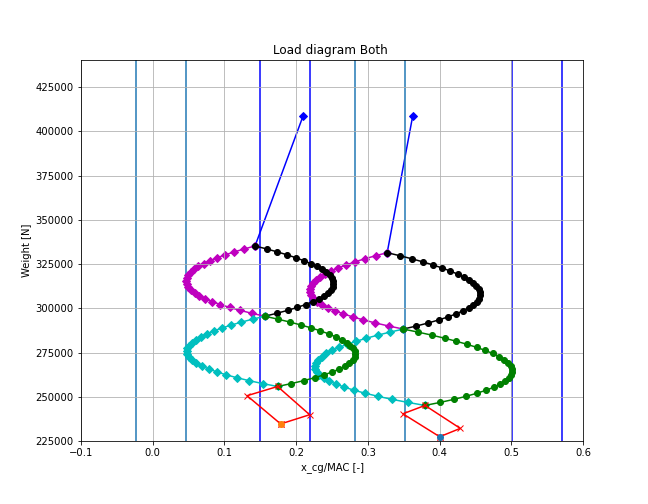
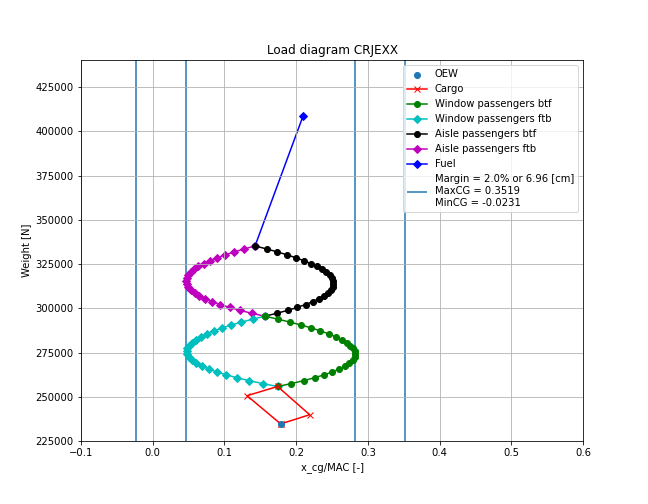
asd

Changed region(s): [[0.463, 0.119, 0.8951, 0.8631], [0.4012, 0.0893, 0.6173, 0.119], [0.4321, 0.8333, 0.463, 0.8631]]

diff --git a/mass_calculation.py b/mass_calculation.py
@@ -199,12 +199,12 @@ def loaddiagram():
     plt.plot(aisle_pointsbtf[0],aisle_pointsbtf[1], 'k', marker = 'o', zorder = 2, label = 'Aisle passengers btf')
     plt.plot(aisle_pointsftb[0],aisle_pointsftb[1], 'm', marker = 'D', zorder = 1, label = 'Aisle passengers ftb')
     plt.plot(fuel_point[0],fuel_point[1], 'b', marker = 'D', zorder = 0, label = 'Fuel')
-    plt.vlines(x = max_cg, ymin = min_weight/1.02, ymax = max_weight*1.02, zorder =0, label = 'Margin = '+ str(round((margin)*100,2))+'% or '+str(round(margin*MAC*100,4))+' [cm]\nMaxCG = '+str(round(max_margin_cg,4))+'\nMinCG = '+str(round(min_margin_cg,4)))
-    plt.vlines(x = min_cg, ymin = min_weight/1.02, ymax = max_weight*1.02, zorder=0)
-    plt.vlines(x = max_margin_cg, ymin = min_weight/1.02, ymax = max_weight*1.02, zorder= 0)
-    plt.vlines(x = min_margin_cg, ymin = min_weight/1.02, ymax = max_weight*1.02, zorder = 0)
-    plt.xlim(min_margin_cg*0.7, max_margin_cg*1.05)
-    plt.ylim(min_weight/1.02, max_weight*1.02)
+    plt.vlines(x = max_cg, ymin = 225000, ymax = 440000, zorder =0, label = 'Margin = '+ str(round((margin)*100,2))+'% or '+str(round(margin*MAC*100,4))+' [cm]\nMaxCG = '+str(round(max_margin_cg,4))+'\nMinCG = '+str(round(min_margin_cg,4)))
+    plt.vlines(x = min_cg, ymin = 225000, ymax = 440000, zorder=0)
+    plt.vlines(x = max_margin_cg, ymin = 225000, ymax = 440000, zorder= 0)
+    plt.vlines(x = min_margin_cg, ymin = 225000, ymax = 440000, zorder = 0)
+    plt.xlim(-0.1, 0.6)
+    plt.ylim(225000, 440000)
     plt.legend(loc='upper right')
     plt.grid()
     plt.savefig('LoaddiagramCRJ1000.png')
@@ -351,12 +351,12 @@ def loaddiagram_crjexx():
     plt.plot(aisle_pointsbtf[0],aisle_pointsbtf[1], 'k', marker = 'o', zorder = 2, label = 'Aisle passengers btf')
     plt.plot(aisle_pointsftb[0],aisle_pointsftb[1], 'm', marker = 'D', zorder = 1, label = 'Aisle passengers ftb')
     plt.plot(fuel_point[0],fuel_point[1], 'b', marker = 'D', zorder = 0, label = 'Fuel')
-    plt.vlines(x = max_cg, ymin = min_weight/1.02, ymax = max_weight*1.02, zorder =0, label = 'Margin = '+ str(round((margin)*100,2))+'% or '+str(round(margin*MAC*100,4))+' [cm]\nMaxCG = '+str(round(max_margin_cg,4))+'\nMinCG = '+str(round(min_margin_cg,4)))
-    plt.vlines(x = min_cg, ymin = min_weight/1.02, ymax = max_weight*1.02, zorder=0)
-    plt.vlines(x = max_margin_cg, ymin = min_weight/1.02, ymax = max_weight*1.02, zorder= 0)
-    plt.vlines(x = min_margin_cg, ymin = min_weight/1.02, ymax = max_weight*1.02, zorder = 0)
-    plt.xlim(min_margin_cg*2, max_margin_cg*1.05)
-    plt.ylim(min_weight/1.02, max_weight*1.02)
+    plt.vlines(x = max_cg, ymin = 225000, ymax = 440000, zorder =0, label = 'Margin = '+ str(round((margin)*100,2))+'% or '+str(round(margin*MAC*100,4))+' [cm]\nMaxCG = '+str(round(max_margin_cg,4))+'\nMinCG = '+str(round(min_margin_cg,4)))
+    plt.vlines(x = min_cg, ymin = 225000, ymax = 440000, zorder=0)
+    plt.vlines(x = max_margin_cg, ymin = 225000, ymax = 440000, zorder= 0)
+    plt.vlines(x = min_margin_cg, ymin = 225000, ymax = 440000, zorder = 0)
+    plt.xlim(-0.1, 0.6)
+    plt.ylim(225000, 440000)
     plt.legend(loc='upper right')
     plt.grid()
     plt.savefig('LoaddiagramCRJEXX.png')

diff --git a/mass_calculation2.py b/mass_calculation2.py
@@ -199,10 +199,14 @@ def loaddiagram():
     plt.plot(aisle_pointsbtf[0],aisle_pointsbtf[1], 'k', marker = 'o', zorder = 2, label = 'Aisle passengers btf')
     plt.plot(aisle_pointsftb[0],aisle_pointsftb[1], 'm', marker = 'D', zorder = 1, label = 'Aisle passengers ftb')
     plt.plot(fuel_point[0],fuel_point[1], 'b', marker = 'D', zorder = 0, label = 'Fuel')
-    plt.vlines(x = max_cg, ymin = 225000, ymax = 440000, color = 'b', zorder =0, label = 'Margin = '+ str(round((margin)*100,2))+'% or '+str(round(margin*MAC*100,4))+' [cm]\nMaxCG = '+str(round(max_margin_cg,4))+'\nMinCG = '+str(round(min_margin_cg,4)))
-    plt.vlines(x = min_cg, ymin = 225000, ymax = 440000, color = 'b', zorder=0)
-    plt.vlines(x = max_margin_cg, ymin = 225000, ymax = 440000, color = 'b', zorder= 0)
-    plt.vlines(x = min_margin_cg, ymin = 225000, ymax = 440000, color = 'b', zorder = 0)
+    plt.vlines(x = max_cg, ymin = 225000, ymax = 440000, zorder =0, label = 'Margin = '+ str(round((margin)*100,2))+'% or '+str(round(margin*MAC*100,4))+' [cm]\nMaxCG = '+str(round(max_margin_cg,4))+'\nMinCG = '+str(round(min_margin_cg,4)))
+    plt.vlines(x = min_cg, ymin = 225000, ymax = 440000, zorder=0)
+    plt.vlines(x = max_margin_cg, ymin = 225000, ymax = 440000, zorder= 0)
+    plt.vlines(x = min_margin_cg, ymin = 225000, ymax = 440000, zorder = 0)
+    plt.xlim(-0.1, 0.6)
+    plt.ylim(225000, 440000)
+    plt.grid()
+    plt.show()
     
     #Constants
     xcg_datum = 3.6576 #m
